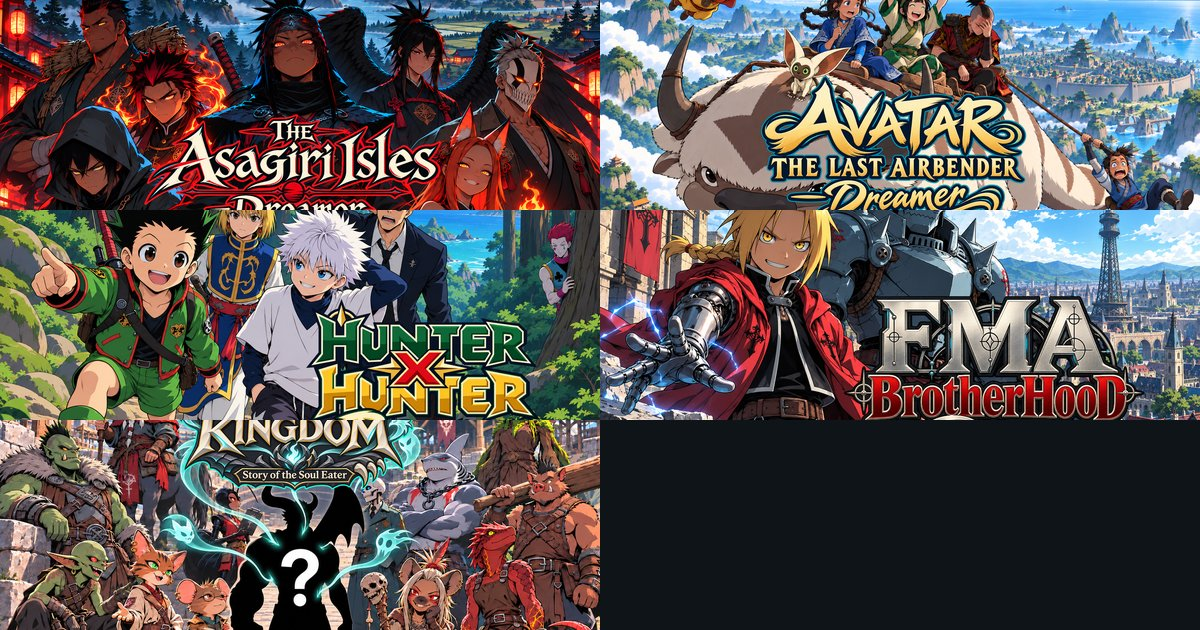
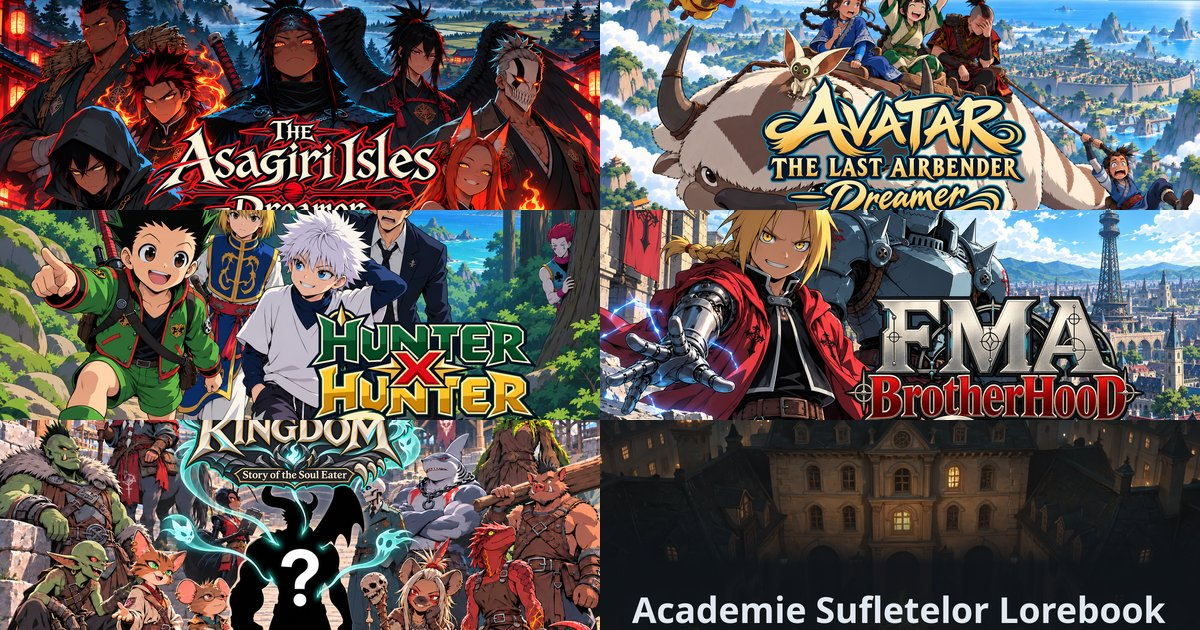
root site

Changed region(s): [[0.4933, 0.6635, 0.8942, 0.8746], [0.5242, 0.9349, 0.9867, 0.9952], [0.8633, 0.6635, 1.0, 0.7841]]

diff --git a/index.html b/index.html
@@ -84,7 +84,7 @@ a:focus-visible { outline: 2px solid var(--gold); outline-offset: 3px; }
 <main>
 <svg class="sigil" aria-hidden="true" focusable="false"><use href="#rose"/></svg>
 <header class="bill"><div><p class="eye">One night only, every night</p><p class="patter">Ladies, gentlemen, and that goat:</p><h1>Dreamer <span class="hot">presents</span></h1><p class="lede">The lorebooks for the worlds I build on Voyage: who is who, where everything is, and how to play them.</p></div><div class="host"><img src="/host.webp" width="360" height="480" alt="Dreamer, the host"><p class="bubble">One, two, three, and the ones after!</p></div></header>
-<div class="sites"><section class="site"><p class="act">Act 01 · The Asagiri Isles</p><a href="/asagiri-isles-lore/" tabindex="-1" aria-hidden="true"><img src="/asagiri-isles-lore/card.jpg" alt="" width="1200" height="630" loading="lazy"></a><div><h2><a href="/asagiri-isles-lore/">Asagiri Lorebook</a></h2><p>Samurai, yokai and a dying emperor: every person, place, faction and creature of the isles, the maps, the quests, a character planner, a crafting bench, and exactly what to type to make things happen.</p><p class="links"><a class="ticket" href="/asagiri-isles-lore/">Open the lorebook</a><a class="ticket blue" href="https://voyage.io/world/fTGj2UaAMVDK/the-asagiri-isles" rel="noopener">Play it on Voyage</a></p></div></section><section class="site"><p class="act">Act 02 · The Four Nations</p><a href="/avatar-lore/" tabindex="-1" aria-hidden="true"><img src="/avatar-lore/card.jpg" alt="" width="1200" height="630" loading="lazy"></a><div><h2><a href="/avatar-lore/">Avatar Lorebook</a></h2><p>Benders, spirits and a hundred-year war: every person, place, faction and creature of the Four Nations, the map, the quests, a character planner, and exactly what to type to make things happen.</p><p class="links"><a class="ticket" href="/avatar-lore/">Open the lorebook</a><a class="ticket blue" href="https://voyage.io/world/ZczT2modKwYv/avatar-the-last-airbender-dreamer" rel="noopener">Play it on Voyage</a></p></div></section><section class="site"><p class="act">Act 03 · The Known World</p><a href="/hunter-x-hunter-lore/" tabindex="-1" aria-hidden="true"><img src="/hunter-x-hunter-lore/card.jpg" alt="" width="1200" height="630" loading="lazy"></a><div><h2><a href="/hunter-x-hunter-lore/">Hunter x Hunter Lorebook</a></h2><p>Hunters, Nen and the Dark Continent at the edge of the map: every person, place, faction and creature of the known world, the map, the quests, a character planner, and exactly what to type to make things happen.</p><p class="links"><a class="ticket" href="/hunter-x-hunter-lore/">Open the lorebook</a><a class="ticket blue" href="https://voyage.io/world/cdrn4Vxtx8-w/hunter-x-hunter-dreamer" rel="noopener">Play it on Voyage</a></p></div></section><section class="site"><p class="act">Act 04 · Amestris</p><a href="/fma-brotherhood-lore/" tabindex="-1" aria-hidden="true"><img src="/fma-brotherhood-lore/card.jpg" alt="" width="1200" height="630" loading="lazy"></a><div><h2><a href="/fma-brotherhood-lore/">Fullmetal Alchemist Lorebook</a></h2><p>Alchemy, equivalent exchange and a country built on a circle: every person, place, faction and creature of Amestris, the map, the quests, a character planner, and exactly what to type to make things happen.</p><p class="links"><a class="ticket" href="/fma-brotherhood-lore/">Open the lorebook</a><a class="ticket blue" href="https://voyage.io/world/5n4_2Ff1sKii/full-metal-alchemist-brotherhood-dreamer" rel="noopener">Play it on Voyage</a></p></div></section><section class="site"><p class="act">Act 05 · The Wildreach</p><a href="/monster-kingdom-lore/" tabindex="-1" aria-hidden="true"><img src="/monster-kingdom-lore/card.jpg" alt="" width="1200" height="630" loading="lazy"></a><div><h2><a href="/monster-kingdom-lore/">Monster Kingdom Lorebook</a></h2><p>You are the monster, and you keep what you kill: every race and the souls it gives, every person and place of the Wildreach, the map with the parts you haven&#x27;t found kept covered, the quests, a character planner, and exactly what to type to make things happen.</p><p class="links"><a class="ticket" href="/monster-kingdom-lore/">Open the lorebook</a><a class="ticket blue" href="https://voyage.io/world/T_iZ1Fay3AOu/monster-kingdom-story-of-the-soul-eater" rel="noopener">Play it on Voyage</a></p></div></section></div>
+<div class="sites"><section class="site"><p class="act">Act 01 · The Asagiri Isles</p><a href="/asagiri-isles-lore/" tabindex="-1" aria-hidden="true"><img src="/asagiri-isles-lore/card.jpg" alt="" width="1200" height="630" loading="lazy"></a><div><h2><a href="/asagiri-isles-lore/">Asagiri Lorebook</a></h2><p>Samurai, yokai and a dying emperor: every person, place, faction and creature of the isles, the maps, the quests, a character planner, a crafting bench, and exactly what to type to make things happen.</p><p class="links"><a class="ticket" href="/asagiri-isles-lore/">Open the lorebook</a><a class="ticket blue" href="https://voyage.io/world/fTGj2UaAMVDK/the-asagiri-isles" rel="noopener">Play it on Voyage</a></p></div></section><section class="site"><p class="act">Act 02 · The Four Nations</p><a href="/avatar-lore/" tabindex="-1" aria-hidden="true"><img src="/avatar-lore/card.jpg" alt="" width="1200" height="630" loading="lazy"></a><div><h2><a href="/avatar-lore/">Avatar Lorebook</a></h2><p>Benders, spirits and a hundred-year war: every person, place, faction and creature of the Four Nations, the map, the quests, a character planner, and exactly what to type to make things happen.</p><p class="links"><a class="ticket" href="/avatar-lore/">Open the lorebook</a><a class="ticket blue" href="https://voyage.io/world/ZczT2modKwYv/avatar-the-last-airbender-dreamer" rel="noopener">Play it on Voyage</a></p></div></section><section class="site"><p class="act">Act 03 · The Known World</p><a href="/hunter-x-hunter-lore/" tabindex="-1" aria-hidden="true"><img src="/hunter-x-hunter-lore/card.jpg" alt="" width="1200" height="630" loading="lazy"></a><div><h2><a href="/hunter-x-hunter-lore/">Hunter x Hunter Lorebook</a></h2><p>Hunters, Nen and the Dark Continent at the edge of the map: every person, place, faction and creature of the known world, the map, the quests, a character planner, and exactly what to type to make things happen.</p><p class="links"><a class="ticket" href="/hunter-x-hunter-lore/">Open the lorebook</a><a class="ticket blue" href="https://voyage.io/world/cdrn4Vxtx8-w/hunter-x-hunter-dreamer" rel="noopener">Play it on Voyage</a></p></div></section><section class="site"><p class="act">Act 04 · Amestris</p><a href="/fma-brotherhood-lore/" tabindex="-1" aria-hidden="true"><img src="/fma-brotherhood-lore/card.jpg" alt="" width="1200" height="630" loading="lazy"></a><div><h2><a href="/fma-brotherhood-lore/">Fullmetal Alchemist Lorebook</a></h2><p>Alchemy, equivalent exchange and a country built on a circle: every person, place, faction and creature of Amestris, the map, the quests, a character planner, and exactly what to type to make things happen.</p><p class="links"><a class="ticket" href="/fma-brotherhood-lore/">Open the lorebook</a><a class="ticket blue" href="https://voyage.io/world/5n4_2Ff1sKii/full-metal-alchemist-brotherhood-dreamer" rel="noopener">Play it on Voyage</a></p></div></section><section class="site"><p class="act">Act 05 · The Wildreach</p><a href="/monster-kingdom-lore/" tabindex="-1" aria-hidden="true"><img src="/monster-kingdom-lore/card.jpg" alt="" width="1200" height="630" loading="lazy"></a><div><h2><a href="/monster-kingdom-lore/">Monster Kingdom Lorebook</a></h2><p>You are the monster, and you keep what you kill: every race and the souls it gives, every person and place of the Wildreach, the map with the parts you haven&#x27;t found kept covered, the quests, a character planner, and exactly what to type to make things happen.</p><p class="links"><a class="ticket" href="/monster-kingdom-lore/">Open the lorebook</a><a class="ticket blue" href="https://voyage.io/world/T_iZ1Fay3AOu/monster-kingdom-story-of-the-soul-eater" rel="noopener">Play it on Voyage</a></p></div></section><section class="site"><p class="act">Act 06 · The Caldera</p><a href="/academie-sufletelor-lore/" tabindex="-1" aria-hidden="true"><img src="/academie-sufletelor-lore/card.jpg" alt="" width="1200" height="630" loading="lazy"></a><div><h2><a href="/academie-sufletelor-lore/">Academie Sufletelor Lorebook</a></h2><p>The first humans ever let into a demon academy, and every demon on campus thinks you&#x27;re the monster: every student, teacher and species of the Academie, the halls and the slopes, the quests, a character planner, and exactly what to type to make things happen.</p><p class="links"><a class="ticket" href="/academie-sufletelor-lore/">Open the lorebook</a><a class="ticket blue" href="https://voyage.io/world/y-eMm6IZiYGu/academie-sufletelor" rel="noopener">Play it on Voyage</a></p></div></section></div>
 </main>
 </body>
 </html>

diff --git a/404.html b/404.html
@@ -83,7 +83,7 @@ a:focus-visible { outline: 2px solid var(--gold); outline-offset: 3px; }
 <main>
 <h1>Nothing is at this address</h1>
 <p class="lede">Try one of the lorebooks:</p>
-<ul><li><a href="/asagiri-isles-lore/">Asagiri Lorebook</a></li><li><a href="/avatar-lore/">Avatar Lorebook</a></li><li><a href="/hunter-x-hunter-lore/">Hunter x Hunter Lorebook</a></li><li><a href="/fma-brotherhood-lore/">Fullmetal Alchemist Lorebook</a></li><li><a href="/monster-kingdom-lore/">Monster Kingdom Lorebook</a></li></ul>
+<ul><li><a href="/asagiri-isles-lore/">Asagiri Lorebook</a></li><li><a href="/avatar-lore/">Avatar Lorebook</a></li><li><a href="/hunter-x-hunter-lore/">Hunter x Hunter Lorebook</a></li><li><a href="/fma-brotherhood-lore/">Fullmetal Alchemist Lorebook</a></li><li><a href="/monster-kingdom-lore/">Monster Kingdom Lorebook</a></li><li><a href="/academie-sufletelor-lore/">Academie Sufletelor Lorebook</a></li></ul>
 <p><a href="/">All the worlds</a></p>
 </main>
 </body>
